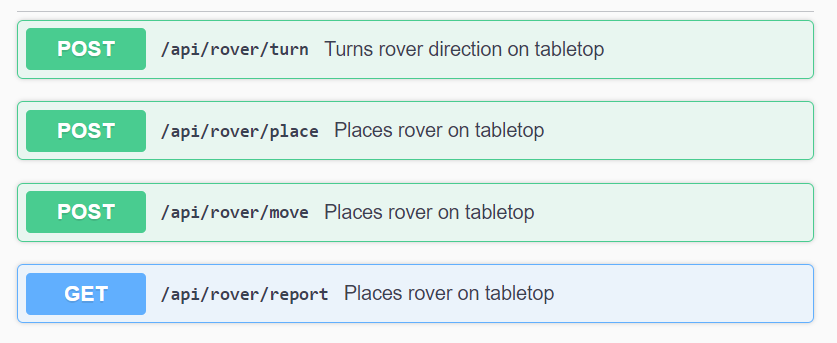
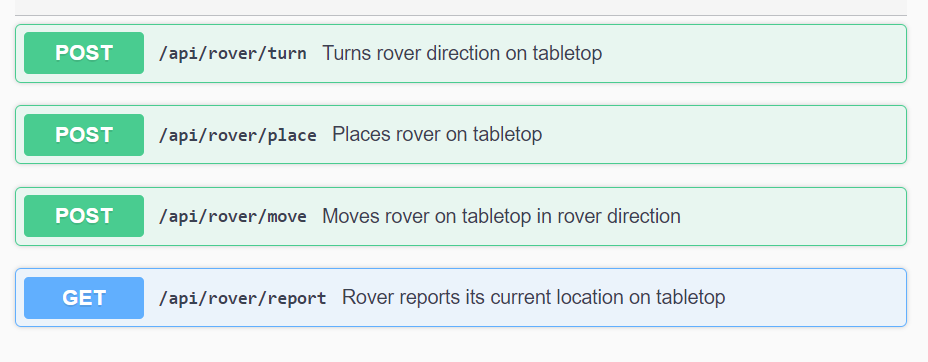
update readme

diff --git a/src/main/java/org/example/moonrover/controller/RoverController.java b/src/main/java/org/example/moonrover/controller/RoverController.java
@@ -61,7 +61,7 @@ public class RoverController {
         return ResponseEntity.ok().body("rotated "+tableTopService.rotateRover(request));
     }
 
-    @Operation(summary = "Places rover on tabletop")
+    @Operation(summary = "Moves rover on tabletop in rover direction")
     @ApiResponses(value = {
             @ApiResponse(responseCode = "200", description = "Rover moved forward one step on tabletop",
                     content = { @Content(mediaType = "application/json",
@@ -77,7 +77,7 @@ public class RoverController {
     }
 
 
-    @Operation(summary = "Places rover on tabletop")
+    @Operation(summary = "Rover reports its current location on tabletop")
     @ApiResponses(value = {
             @ApiResponse(responseCode = "200", description = "Rover placed on tabletop",
                     content = { @Content(mediaType = "application/json",

diff --git a/README.md b/README.md
@@ -1,3 +1,5 @@
+# **Moon Rover**
+## an ICE coding challenge
 The purpose of this application is to guide a rover 
 over a small area defined in the configuration application.properties
 
@@ -6,19 +8,37 @@ over a small area defined in the configuration application.properties
 <p align="left">
 <img src="presentation/KerbalRover.png" width="300" height="300" border="10"/>
 </p>
-To facilitate this there are 4 main REST API calls:
+
+## REST API
+ To facilitate this there are 4 main API calls:
 
 <p align="left">
 <img src="presentation/methods.PNG" width="800" height="400" border="10"/>
 </p>
 
+## CONCEPT
+
+    The tabletop is defined as an 2D array of tabletop objects of 
+    wich the rover is the extended class and the tabletop has
+    x and y dimensions begining from 0,0 coordinates
+
 <p align="left">
 <img src="presentation/coordinateSystem.PNG" width="400" height="400" border="10"/>
 </p>
 
+    To handle the rover going outside the bounds of the tabletop
+    there exist two possible  concepts to handle that case.
+    In the first instance we could determine that the new coordinates are outside
+    the dimensions of the tabletop and throw an error.
+
 <p align="left">
 <img src="presentation/ballFallOff.PNG" width="200" height="200" border="10"/>
 </p>
+
+    In the second instance we might bound the movement so that the rover simply 
+    stays in place as if the rover where pushing into a wall where it is not able to 
+    move forward. We might describe that concept as if the rover and the tabletop where 
+    in a box.
 
 <p align="left">
 <img src="presentation/ballCaptured.PNG" width="200" height="200" border="10"/>
